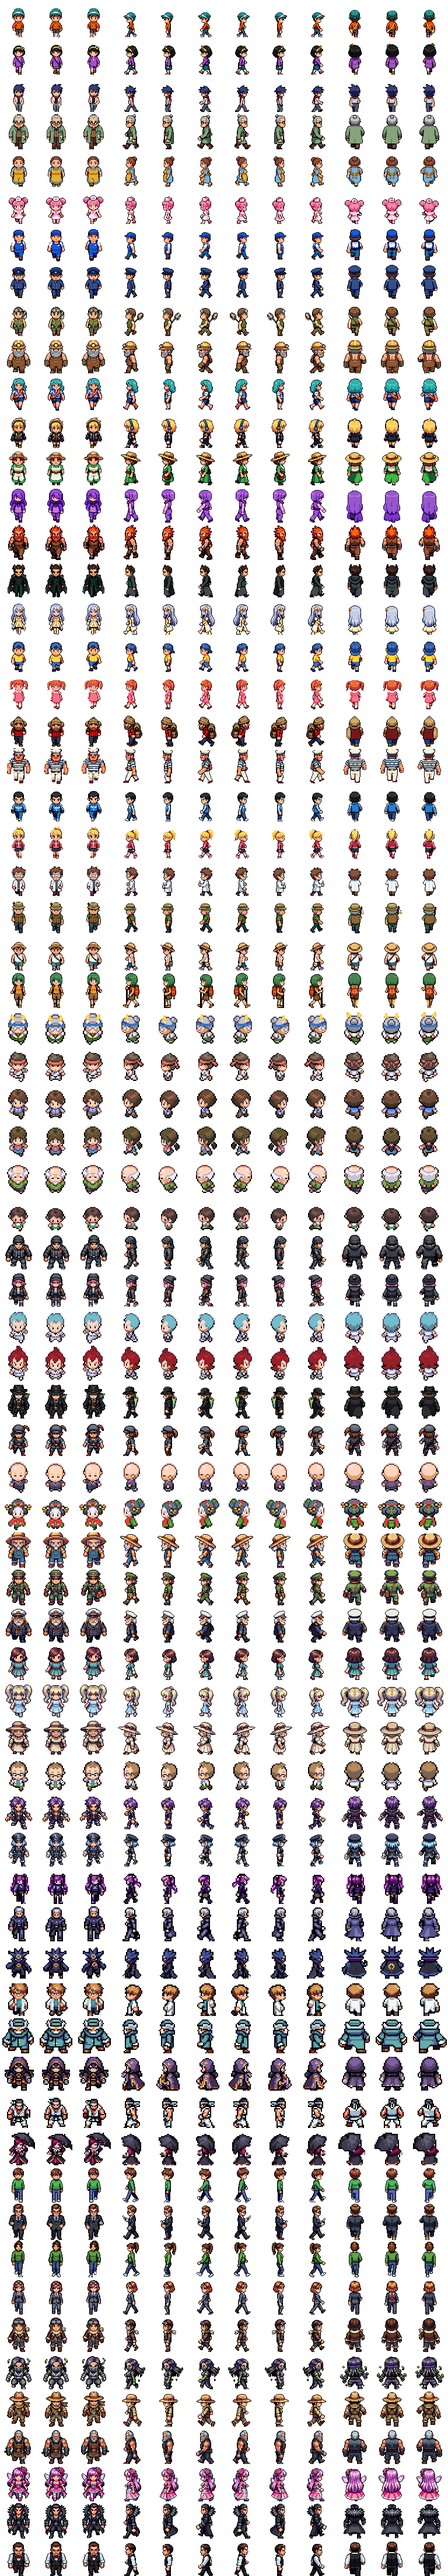
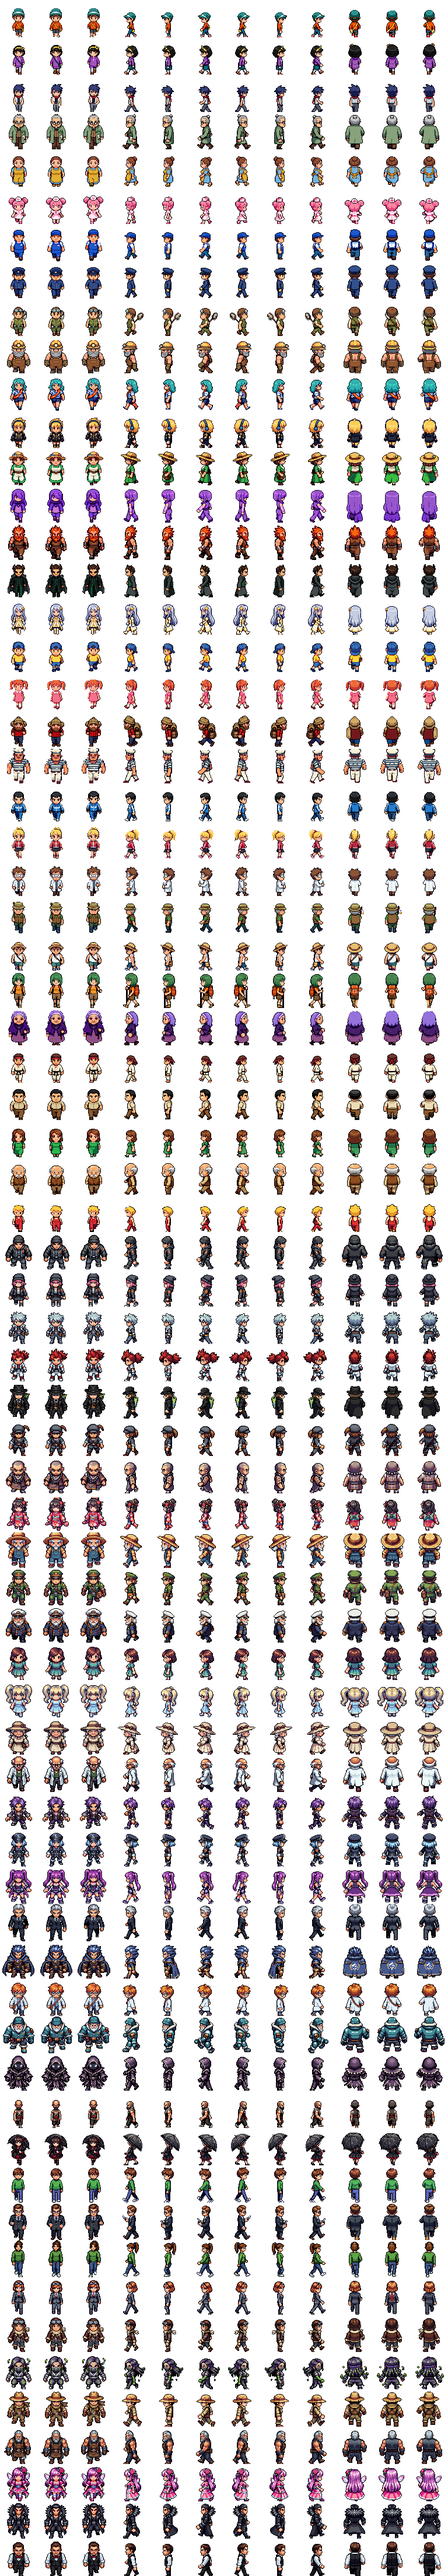
feat(odyssee): les derniers personnages redessinés (Team Éclipse, Conseil 4, Lumen) ; Odyssée 3.75
Claude-Session: https://claude.ai/code/session_01E9CUaRXpXWBZHeUs2KXzJU

diff --git a/index.html b/index.html
@@ -25,7 +25,7 @@
 <link rel="preconnect" href="https://fonts.googleapis.com">
 <link rel="preconnect" href="https://fonts.gstatic.com" crossorigin>
 <link href="https://fonts.googleapis.com/css2?family=Bungee&family=Chakra+Petch:wght@500;600;700&display=swap" rel="stylesheet">
-<link rel="stylesheet" href="hub/hub.css?v=3.74">
+<link rel="stylesheet" href="hub/hub.css?v=3.75">
 </head>
 <body>
 
@@ -136,20 +136,20 @@
 <!-- JEU -->
 <section class="screen" id="play"></section>
 
-<script src="shared/logger.js?v=3.74"></script>
-<script src="shared/net.js?v=3.74"></script>
-<script src="shared/room.js?v=3.74"></script>
-<script src="shared/profile.js?v=3.74"></script>
-<script src="shared/results.js?v=3.74"></script>
-<script src="shared/volume.js?v=3.74"></script>
-<script src="shared/uisfx.js?v=3.74"></script>
-<script src="hub/nettest.js?v=3.74"></script>
-<script src="hub/games.js?v=3.74"></script>
-<script src="hub/account.js?v=3.74"></script>
-<script src="hub/friends.js?v=3.74"></script>
-<script src="hub/hub.js?v=3.74"></script>
-<script src="hub/home.js?v=3.74"></script>
-<script src="hub/ingame.js?v=3.74"></script>
-<script type="module" src="hub/music.js?v=3.74"></script>
+<script src="shared/logger.js?v=3.75"></script>
+<script src="shared/net.js?v=3.75"></script>
+<script src="shared/room.js?v=3.75"></script>
+<script src="shared/profile.js?v=3.75"></script>
+<script src="shared/results.js?v=3.75"></script>
+<script src="shared/volume.js?v=3.75"></script>
+<script src="shared/uisfx.js?v=3.75"></script>
+<script src="hub/nettest.js?v=3.75"></script>
+<script src="hub/games.js?v=3.75"></script>
+<script src="hub/account.js?v=3.75"></script>
+<script src="hub/friends.js?v=3.75"></script>
+<script src="hub/hub.js?v=3.75"></script>
+<script src="hub/home.js?v=3.75"></script>
+<script src="hub/ingame.js?v=3.75"></script>
+<script type="module" src="hub/music.js?v=3.75"></script>
 </body>
 </html>

diff --git a/apropos.html b/apropos.html
@@ -13,7 +13,7 @@
 <link rel="preconnect" href="https://fonts.googleapis.com">
 <link rel="preconnect" href="https://fonts.gstatic.com" crossorigin>
 <link href="https://fonts.googleapis.com/css2?family=Bungee&family=Chakra+Petch:wght@500;600;700&display=swap" rel="stylesheet">
-<link rel="stylesheet" href="hub/hub.css?v=3.74">
+<link rel="stylesheet" href="hub/hub.css?v=3.75">
 <style>
   .doc{width:min(860px,100%);margin:0 auto;display:flex;flex-direction:column;gap:22px}
   .doc .card h2{margin-top:0}

diff --git a/hub/hub.js b/hub/hub.js
@@ -1,7 +1,7 @@
 /* Hub : profil, salon commun et lancement des jeux dans une iframe.
    Le salon (DDRoom) vit ici pendant toute la session : changer de jeu ne coupe pas la connexion. */
 (function () {
-  const VERSION = '3.74';
+  const VERSION = '3.75';
   const $ = (s) => document.querySelector(s);
   const ORIGIN = location.origin === 'null' ? '*' : location.origin;
   const GAMES = window.HUB_GAMES;

diff --git a/CHANGELOG.md b/CHANGELOG.md
@@ -1,5 +1,8 @@
 # Journal des versions — Arcadia
 
+## 3.75 — 3 novembre 2026
+- **Odyssée** — Tous les personnages ont maintenant leur nouveau dessin : Nocturne et ses admins Nyx et Érèbe, le Conseil 4 (Frimas, Spectrel, Brutus et Ombrelle), Lumen et le savant.
+
 ## 3.74 — 3 novembre 2026
 - **Odyssée** — Une armoire dans ta chambre, à Bourg-Aube : change de tenue quand tu veux, sans attendre la boutique de Métropole.
 - **Odyssée** — Nouveaux dessins pour le capitaine, le facteur, la vieille dame, Nox, le voleur, Brume et une sbire de la Team Éclipse.
